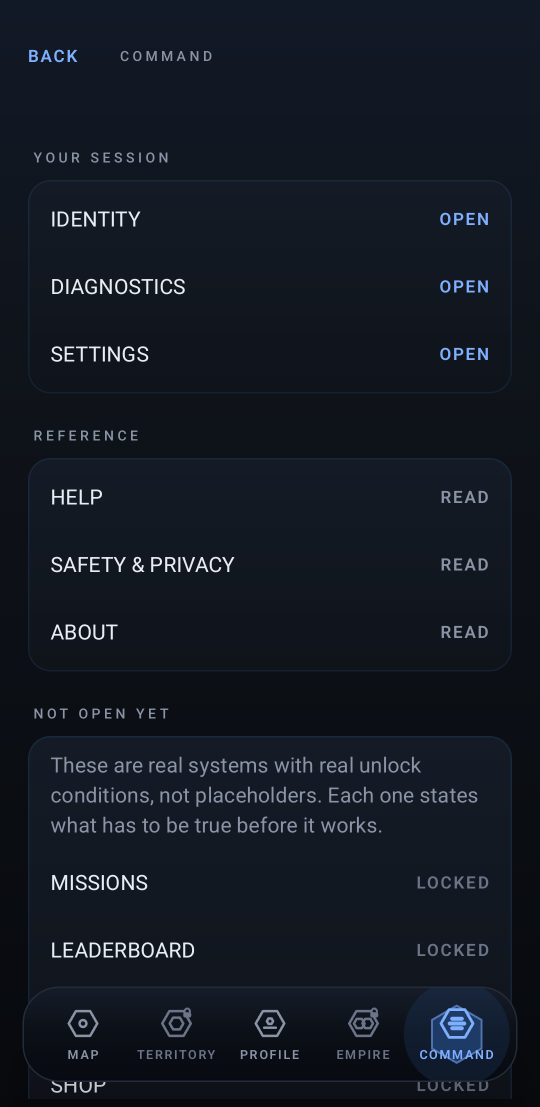
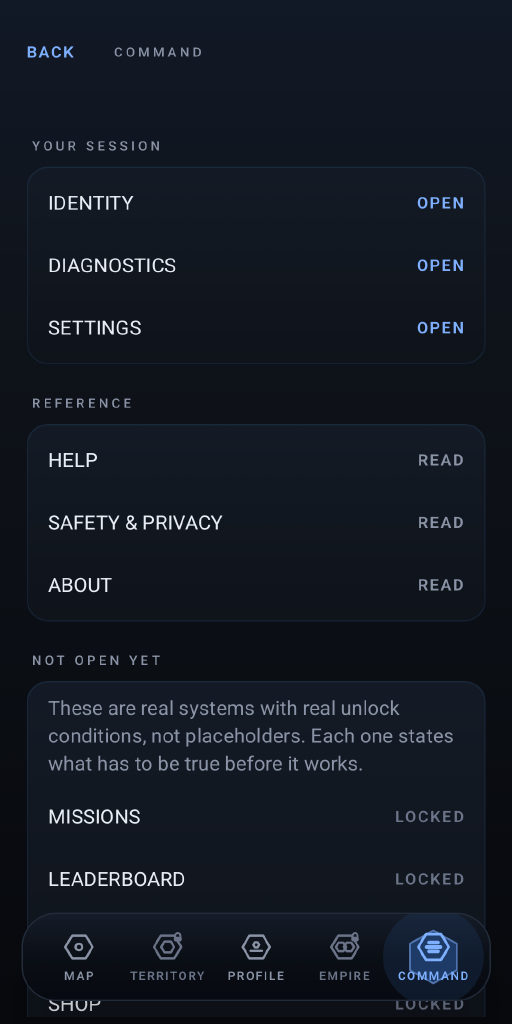
Website: power-of-two phone textures to kill screen moire
Regenerate the screens at 512x1024 (POT) with a proper area-average
downscale so mipmaps generate in every WebGL version and anisotropic
filtering works — removes the cross-hatch shimmer on the flat territory
fill at oblique angles. Bump img version to v=3.

diff --git a/website/index.html b/website/index.html
@@ -141,11 +141,11 @@
           <div class="phone">
             <div class="notch"></div>
             <div class="screen">
-              <img class="on" data-i="0" src="/assets/shots/map.png?v=2" alt="MapMonarchs map, signed out" loading="lazy" width="540" height="1107">
-              <img data-i="1" src="/assets/shots/signin.png?v=2" alt="MapMonarchs sign-in" loading="lazy">
-              <img data-i="2" src="/assets/shots/owned.png?v=2" alt="MapMonarchs owned territory" loading="lazy">
-              <img data-i="3" src="/assets/shots/identity.png?v=2" alt="MapMonarchs identity crest" loading="lazy">
-              <img data-i="4" src="/assets/shots/command.png?v=2" alt="MapMonarchs command" loading="lazy">
+              <img class="on" data-i="0" src="/assets/shots/map.png?v=3" alt="MapMonarchs map, signed out" loading="lazy" width="512" height="1024">
+              <img data-i="1" src="/assets/shots/signin.png?v=3" alt="MapMonarchs sign-in" loading="lazy">
+              <img data-i="2" src="/assets/shots/owned.png?v=3" alt="MapMonarchs owned territory" loading="lazy">
+              <img data-i="3" src="/assets/shots/identity.png?v=3" alt="MapMonarchs identity crest" loading="lazy">
+              <img data-i="4" src="/assets/shots/command.png?v=3" alt="MapMonarchs command" loading="lazy">
             </div>
           </div>
         </div>

diff --git a/website/assets/phone.js b/website/assets/phone.js
@@ -42,7 +42,7 @@
   host.className = "phone-gl";
   phoneEl.appendChild(host);
 
-  var ASPECT = 1080 / 2214;            // cropped screenshot ratio (w/h)
+  var ASPECT = 512 / 1024;             // cropped screenshot ratio (w/h), power-of-two
   var Ws = 2.0, Hs = Ws / ASPECT;      // screen size in world units
   var frame = 0.11, depth = 0.17, rad = 0.30;
   var Wb = Ws + frame * 2, Hb = Hs + frame * 2;
